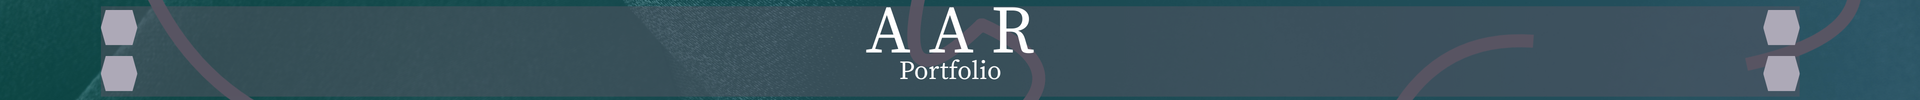
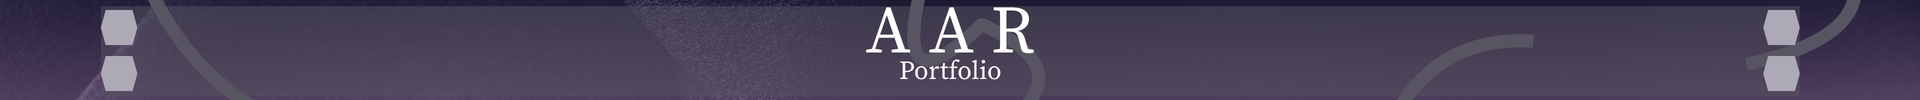
Stuff

Changed region(s): [[0.0, 0.0, 1.0, 1.0]]

diff --git a/styles.css b/styles.css
@@ -25,37 +25,37 @@ body {
 
 h1 {
   text-decoration: underline wavy rgb(207, 165, 110);
-  color: aliceblue;
+  color: rgb(252, 252, 252);
   text-align: center;
   font-family: Georgia, "Times New Roman", Times, serif;
 }
 h2 {
-  color: aliceblue;
+  color: rgb(252, 252, 252);
   text-align: center;
 }
 body {
-  background-color: rgb(88, 85, 99);
+  background-color: rgb(62, 49, 109);
 }
 .Eviltxt {
   color: red;
   font-family: "Franklin Gothic Medium", "Arial Narrow", Arial, sans-serif;
 }
 p {
-  color: aliceblue;
+  color: rgb(252, 252, 252);
   text-align: center;
 }
 a:link {
-  color: cornflowerblue;
+  color: rgb(68, 224, 253);
 }
 a:visited {
-  color: rgb(196, 196, 248);
+  color: rgb(187, 210, 216);
 }
 a:hover {
-  color: rgb(108, 159, 255);
+  color: rgb(175, 245, 253);
   text-decoration: wavy;
 }
 a:active {
-  color: rgb(108, 135, 185);
+  color: rgb(95, 232, 242);
 }
 
 .links li a {

diff --git a/index.html b/index.html
@@ -9,7 +9,9 @@
   <body>
     <div class="wrapper">
     <header class="banner">
+      <a href="index.html">
       <img src="Black and Yellow Web Developer LinkedIn Banner (1920 x 100 px).png" alt="Banner">
+      </a>
     </header>
 <div class="Abc">
     <p>Main page of a small Portfolio</p>
